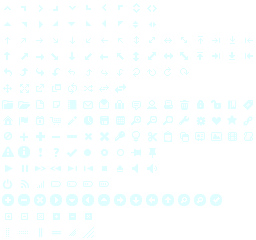
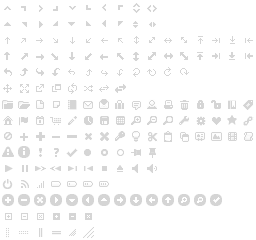
Menu Module and the DatePicker class css styles changed in JQuery-UI to folow JAdERP Graphic Chart  ;)

diff --git a/jaderp/includes/jquery/jquery-ui-1.7.1.css b/jaderp/includes/jquery/jquery-ui-1.7.1.css
@@ -48,18 +48,22 @@
 ----------------------------------*/
 .ui-widget { font-family: Verdana,Arial,sans-serif; font-size: 1.1em; }
 .ui-widget input, .ui-widget select, .ui-widget textarea, .ui-widget button { font-family: Verdana,Arial,sans-serif; font-size: 1em; }
-.ui-widget-content { border: 1px solid #a6c9e2; background: #fcfdfd url(images/ui-bg_inset-hard_100_fcfdfd_1x100.png) 50% bottom repeat-x; color: #222222; }
+.ui-widget-content { border: 1px solid #666666; background: #fcfdfd url(images/ui-bg_inset-hard_100_fcfdfd_1x100.png) 50% bottom repeat-x; color: #222222; }
 .ui-widget-content a { color: #222222; }
-.ui-widget-header { border: 1px solid #4297d7; background: #2191c0 url(images/ui-bg_gloss-wave_75_2191c0_500x100.png) 50% 50% repeat-x; color: #eaf5f7; font-weight: bold; }
+.ui-widget-header { border: 1px solid #910000; background: #C00 url(images/ui-bg_gloss-wave_500x100.png) 50% 50% repeat-x; color: #eaf5f7; font-weight: bold; }
 .ui-widget-header a { color: #eaf5f7; }
 
 /* Interaction states
 ----------------------------------*/
-.ui-state-default, .ui-widget-content .ui-state-default { border: 1px solid #77d5f7; background: #0078ae url(images/ui-bg_glass_45_0078ae_1x400.png) 50% 50% repeat-x; font-weight: normal; color: #ffffff; outline: none; }
+.ui-state-default, .ui-widget-content .ui-state-default { border: 1px solid #666; background: #999 url(images/ui-bg_glass_45_0078ae_1x400.png) 50% 50% repeat-x; font-weight: normal; color: #ffffff; outline: none; }
 .ui-state-default a, .ui-state-default a:link, .ui-state-default a:visited { color: #ffffff; text-decoration: none; outline: none; }
-.ui-state-hover, .ui-widget-content .ui-state-hover, .ui-state-focus, .ui-widget-content .ui-state-focus { border: 1px solid #448dae; background: #79c9ec url(images/ui-bg_glass_75_79c9ec_1x400.png) 50% 50% repeat-x; font-weight: normal; color: #026890; outline: none; }
-.ui-state-hover a, .ui-state-hover a:hover { color: #026890; text-decoration: none; outline: none; }
-.ui-state-active, .ui-widget-content .ui-state-active { border: 1px solid #acdd4a; background: #6eac2c url(images/ui-bg_gloss-wave_50_6eac2c_500x100.png) 50% 50% repeat-x; font-weight: normal; color: #ffffff; outline: none; }
+.ui-state-hover, .ui-widget-content .ui-state-hover, .ui-state-focus, .ui-widget-content .ui-state-focus { border: 1px solid #999; background: #CCC url(images/ui-bg_glass_75_79c9ec_1x400.png) 50% 50% repeat-x; font-weight: normal; color: #000; outline: none; }
+.ui-datepicker-prev:hover { background:none; border-color:#880303;}
+.ui-datepicker-next:hover { background:none; border-color:#880303;}
+
+
+.ui-state-hover a, .ui-state-hover a:hover { color:#000; text-decoration: none; outline: none; }
+.ui-state-active, .ui-widget-content .ui-state-active { border: 1px solid #666; background: #C00 url(images/ui-bg_gloss-wave_50_6eac2c_500x100.png) 50% 50% repeat-x; font-weight: normal; color: #ffffff; outline: none; }
 .ui-state-active a, .ui-state-active a:link, .ui-state-active a:visited { color: #ffffff; outline: none; text-decoration: none; }
 
 /* Interaction Cues
@@ -82,6 +86,7 @@
 .ui-widget-header .ui-icon {background-image: url(images/ui-icons_d8e7f3_256x240.png); }
 .ui-state-default .ui-icon { background-image: url(images/ui-icons_e0fdff_256x240.png); }
 .ui-state-hover .ui-icon, .ui-state-focus .ui-icon {background-image: url(images/ui-icons_056b93_256x240.png); }
+.ui-datepicker .ui-state-hover .ui-icon, .ui-datepicker .ui-state-focus .ui-icon {background-image:url(images/ui-icons_0078ae_256x240.png);}
 .ui-state-active .ui-icon {background-image: url(images/ui-icons_f5e175_256x240.png); }
 .ui-state-highlight .ui-icon {background-image: url(images/ui-icons_f7a50d_256x240.png); }
 .ui-state-error .ui-icon, .ui-state-error-text .ui-icon {background-image: url(images/ui-icons_fcd113_256x240.png); }
